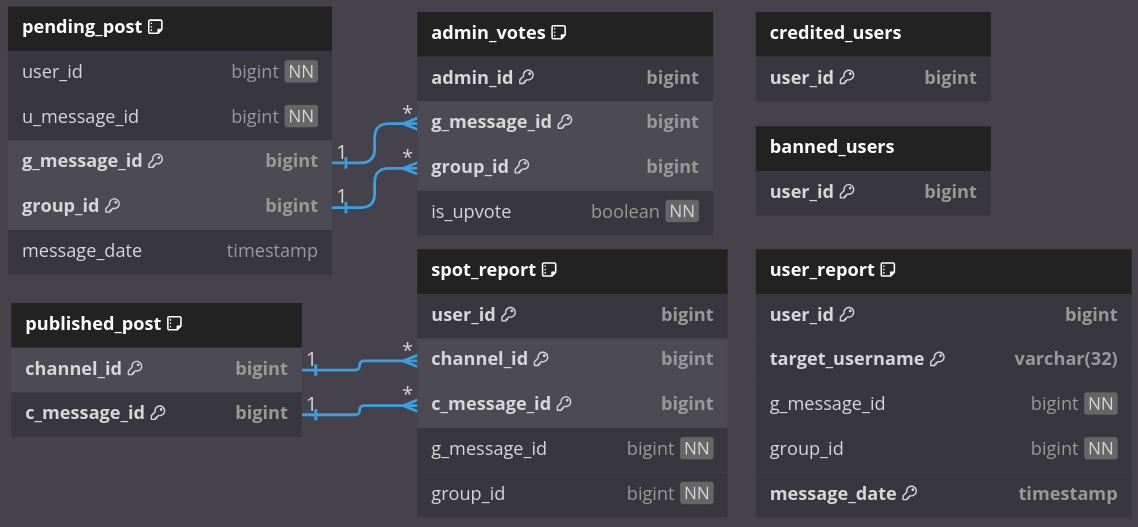
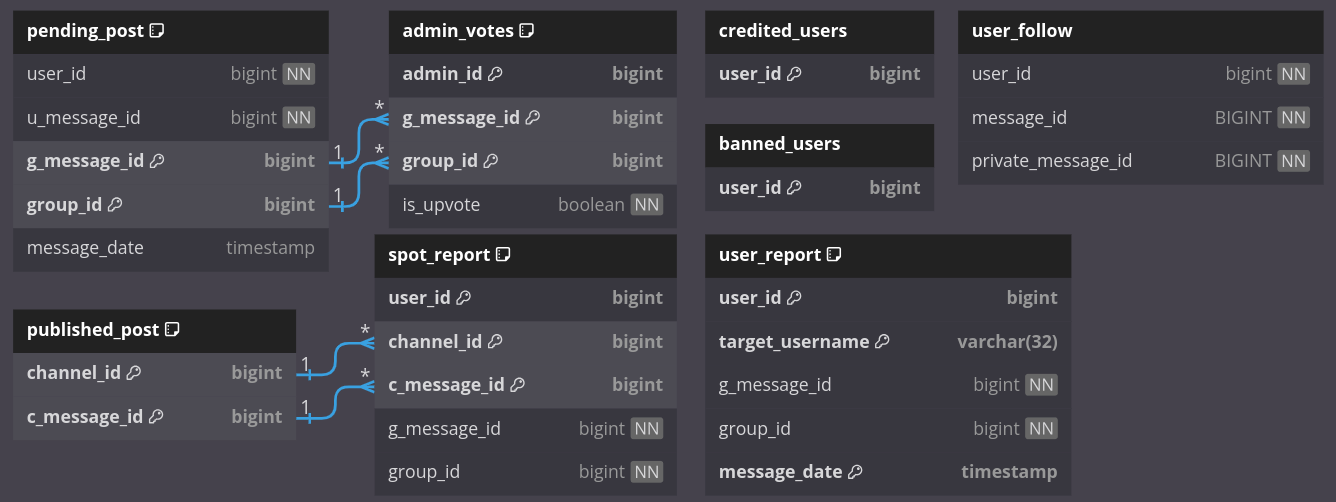
refactor: update the follow functionality to the new library

diff --git a/modules/handlers/follow_spot.py b/modules/handlers/follow_spot.py
@@ -2,83 +2,65 @@
 import logging
 from telegram import Update
 from telegram.ext import CallbackContext
-from telegram.error import Unauthorized
+from telegram.error import Forbidden
 from telegram import InlineKeyboardButton, InlineKeyboardMarkup
 from modules.utils import EventInfo
 from modules.data import Config
-from modules.data.db_manager import DbManager
+from modules.data.user import User
 
 
 logger = logging.getLogger(__name__)
 
-def follow_spot_callback(update: Update, context: CallbackContext) -> int:
+
+async def follow_spot_callback(update: Update, context: CallbackContext):
     """Handles the follow callback.
 
     Args:
         update: update event
         context: context passed by the handler
-
-    Returns:
-        next state of the conversation
     """
     info = EventInfo.from_callback(update, context)
-    message_id = info.message.reply_to_message.message_id if Config.meme_get('comments') else info.message_id
+    message_id = info.message.reply_to_message.message_id if Config.post_get("comments") else info.message_id
 
-    # Check if user is already following this spot
-    result = DbManager.select_from(
-        table_name = "user_follow",
-        select = "private_message_id",
-        where = "user_id = %s and message_id = %s",
-        where_args = (info.user_id, message_id)
-    )
+    # Get a reference to the user
+    user = User(info.user_id)
 
-    if len(result) > 0:
+    # If the user is already following this spot, there is a reference to the private message.
+    # Since the user clicked the button, he wants to stop following the spot.
+    if private_message_id := user.get_follow_private_message_id(message_id):
         answer_text = "Non stai più seguendo questo spot."
         # Forget the stored data
-        DbManager.delete_from(
-            table_name="user_follow",
-            where="user_id = %s and message_id = %s",
-            where_args=(info.user_id, message_id)
-        )
+        user.set_follow(message_id, None)
 
-        info.bot.send_message(
-            chat_id = info.user_id,
-            text = answer_text,
-            reply_to_message_id = result[0]['private_message_id'],
-            disable_notification = True
+        await info.bot.send_message(
+            chat_id=info.user_id,
+            text=answer_text,
+            reply_to_message_id=private_message_id,
+            disable_notification=True,
         )
-    else:
+    else:  # The user is not following this spot, so he wants to start following it.
         post_url = f"https://t.me/c/{str(info.chat_id).replace('-100', '')}/{info.message_id}"
         answer_text = "Stai seguendo questo spot."
         try:
             # Forward the spot in user's conversation with the bot, so that
             # future comments will be sent in response to this forwarded message.
-            private_message = info.bot.copy_message(
-                chat_id = info.user_id,
-                from_chat_id = info.chat_id,
-                message_id = message_id,
-                disable_notification = True,
-                reply_markup = InlineKeyboardMarkup([
-                    [InlineKeyboardButton("💬 Visualizza thread", url = post_url)]
-                ])
+            private_message = await info.bot.copy_message(
+                chat_id=info.user_id,
+                from_chat_id=info.chat_id,
+                message_id=message_id,
+                disable_notification=True,
+                reply_markup=InlineKeyboardMarkup([[InlineKeyboardButton("💬 Visualizza thread", url=post_url)]]),
             )
 
             # Add an explanation to why the message was forwarded?
-            info.bot.send_message(
-                chat_id = info.user_id,
-                text = answer_text,
-                reply_to_message_id = private_message.message_id
+            await info.bot.send_message(
+                chat_id=info.user_id, text=answer_text, reply_to_message_id=private_message.message_id
             )
-        except Unauthorized:
-            info.answer_callback_query(text=f"Assicurati di aver avviato la chat con {Config.settings_get('bot_tag')}")
-            return -1
+        except Forbidden:
+            await info.answer_callback_query(text=f"Assicurati di aver avviato la chat con {Config.settings_get('bot_tag')}")
+            return
 
         # Remember the user_id and message_id
-        DbManager.insert_into(
-            table_name="user_follow",
-            columns=("user_id", "message_id", "private_message_id"),
-            values=(info.user_id, message_id, private_message.message_id)
-        )
+        user.set_follow(message_id, private_message.message_id)
 
-    info.answer_callback_query(text=answer_text)
-    return -1
+    await info.answer_callback_query(text=answer_text)

diff --git a/modules/data/user.py b/modules/data/user.py
@@ -39,6 +39,35 @@ class User:
             cls(user_id=row["user_id"]) for row in DbManager.select_from(table_name="banned_users", select="user_id")
         ]
 
+    @classmethod
+    def credited_users(cls) -> "list[User]":
+        """Returns a list of all the credited users"""
+        return [
+            cls(user_id=row["user_id"]) for row in DbManager.select_from(table_name="credited_users", select="user_id")
+        ]
+
+    @classmethod
+    def following_users(cls, message_id: int) -> "list[tuple[User, int]]":
+        """Returns a list of all the users following the post with the associated private message id
+        used by the bot to send updates about the post by replying to it
+
+        Args:
+            message_id: id of the post the users are following
+
+        Returns:
+            list of tuples (user, private_message_id), where private_message_id is the id of the private message
+            in the user's conversation with the bot
+        """
+        return [
+            (cls(user_id=row["user_id"]), row["private_message_id"])
+            for row in DbManager.select_from(
+                table_name="user_follow",
+                select="user_id, private_message_id",
+                where="message_id = %s",
+                where_args=(message_id,),
+            )
+        ]
+
     def ban(self):
         """Adds the user to the banned list"""
 
@@ -94,6 +123,45 @@ class User:
                 sign = "@" + username
 
         return sign
+
+    def get_follow_private_message_id(self, message_id: int) -> int | None:
+        """Verifies if the user is following a post
+
+        Args:
+            message_id: id of the post
+
+        Returns:
+            whether the user is following the post or not
+        """
+        result = DbManager.select_from(
+            table_name="user_follow",
+            select="private_message_id",
+            where="user_id = %s and message_id = %s",
+            where_args=(self.user_id, message_id),
+        )
+        return result[0]["private_message_id"] if result else None
+
+    def set_follow(self, message_id: int, private_message_id: int | None):
+        """Sets the follow status of the user.
+        If the private_message_id is None, the user is not following the post anymore,
+        and the record is deleted from the database.
+        Otherwise, the user is following the post and a new record is created.
+
+        Args:
+            message_id: id of the post
+            private_message_id: id of the private message. If None, the record is deleted
+        """
+        if private_message_id is None:
+            DbManager.delete_from(
+                table_name="user_follow",
+                where="user_id = %s and message_id = %s",
+                where_args=(self.user_id, message_id),
+            )
+        DbManager.insert_into(
+            table_name="user_follow",
+            columns=("user_id", "message_id", "private_message_id"),
+            values=(self.user_id, message_id, private_message_id),
+        )
 
     def __repr__(self) -> str:
         return (

diff --git a/modules/handlers/follow_comment.py b/modules/handlers/follow_comment.py
@@ -1,12 +1,11 @@
 """Detect Comment on a post in the comment group"""
 from telegram import Update
 from telegram.ext import CallbackContext
-from modules.data import Config
+from modules.data import Config, User
 from modules.utils import EventInfo
-from modules.data.db_manager import DbManager
 
 
-def follow_spot_comment(update: Update, context: CallbackContext):
+async def follow_spot_comment(update: Update, context: CallbackContext):
     """Handles a new comment on a post in the comment group.
     Checks if someone is following the post, and sends them an update in case.
 
@@ -16,19 +15,14 @@ def follow_spot_comment(update: Update, context: CallbackContext):
     """
     info = EventInfo.from_message(update, context)
 
-    if info.chat_id == Config.meme_get('channel_group_id'):
+    if info.chat_id == Config.post_get("channel_group_id"):
         # Get the spot's message_id
         reply_to_message_id = info.message.message_thread_id
         # Get a list of users who are following the spot
-        result = DbManager.select_from(
-            table_name = "user_follow",
-            select = "user_id, private_message_id",
-            where = "message_id = %s",
-            where_args = (reply_to_message_id, )
-        )
+        users_and_private_message_ids = User.following_users(reply_to_message_id)
 
         # Send them an update about the new comment
-        for user in result:
+        for user, private_message_id in users_and_private_message_ids:
             # Avoid sending if it's made by the same user
-            if not user['user_id'] == info.message.from_user.id:
-                info.message.copy(chat_id=user['user_id'], reply_to_message_id=user['private_message_id'])
+            if not user.user_id == info.message.from_user.id:
+                await info.message.copy(chat_id=user.user_id, reply_to_message_id=private_message_id)

diff --git a/docs/source/dbschema.rst b/docs/source/dbschema.rst
@@ -20,14 +20,6 @@ This image has been created with the following script on `dbdiagram.io <https://
    channel_id bigint [pk]
    c_message_id bigint [pk]
    }
-   
-
-   Table votes {
-   user_id bigint [pk]
-   channel_id bigint [pk, ref: > PU.channel_id]
-   c_message_id bigint [pk, ref: > PU.c_message_id]
-   vote varchar(4) [not null]
-   }
 
    Table admin_votes {
    admin_id bigint [pk]
@@ -58,4 +50,10 @@ This image has been created with the following script on `dbdiagram.io <https://
    g_message_id bigint [not null]
    group_id bigint [not null]
    message_date timestamp [pk]
+   }
+
+   Table user_follow {
+   user_id bigint [not null]
+   message_id BIGINT [not null]
+   private_message_id BIGINT [not null]
    }
